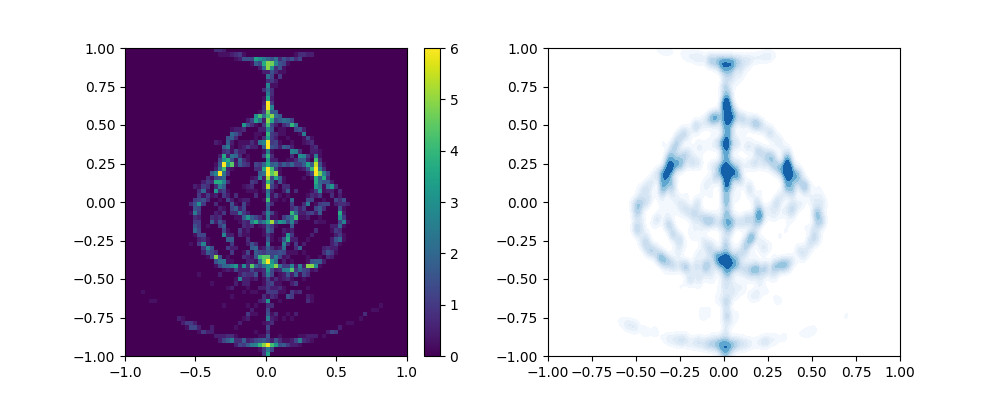
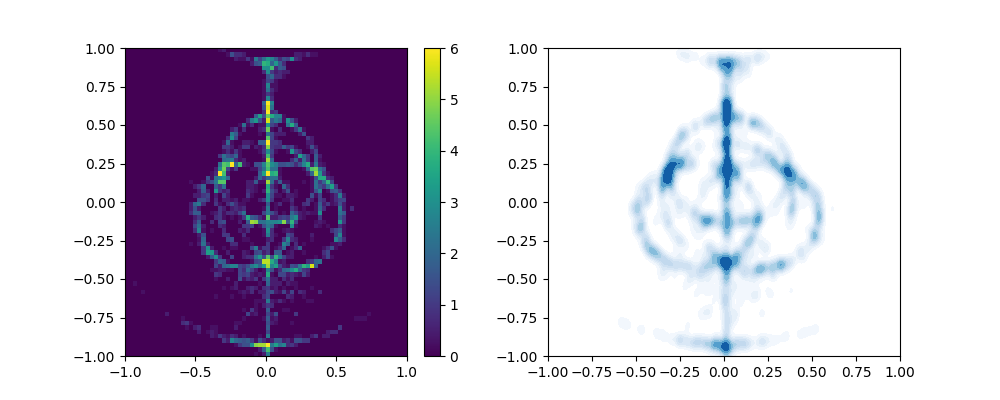
generic commit

diff --git a/scripts/transport/kdiffusion.py b/scripts/transport/kdiffusion.py
@@ -177,6 +177,7 @@ class CondTransportKernel(nn.Module):
         if not self.params['approx']:
             self.Y_approx_test = deepcopy(self.Y_eta_test)
 
+
         self.X_mu_test = geq_1d(torch.tensor(base_params['X_mu_test'], device=self.device, dtype=self.dtype))
         self.Y_mu_test = geq_1d(torch.tensor(base_params['Y_mu_test'], device=self.device, dtype=self.dtype))
         self.Y_test = torch.concat([self.X_mu_test, self.Y_mu_test], dim=1)
@@ -185,7 +186,7 @@ class CondTransportKernel(nn.Module):
         self.alpha_y = self.p_vec(self.Ny)
         self.E_mmd_YY = self.alpha_y.T @ self.mmd_YY @ self.alpha_y
 
-
+        self.mmd_lambda = 1
         self.mmd_lambda = (1 / self.loss_mmd().detach())
 
         self.reg_lambda = self.params['reg_lambda'] * self.mmd_lambda
@@ -224,9 +225,6 @@ class CondTransportKernel(nn.Module):
         x_mu = geq_1d(torch.tensor(x_mu, device=self.device, dtype=self.dtype))
         if not self.params['approx']:
             y_approx = deepcopy(y_eta)
-            #x = torch.concat([x_mu, y_approx], dim=1)  ##
-        #else:
-            #x = torch.concat([x_mu, shuffle(y_eta), y_approx], dim=1)
         x = torch.concat([x_mu, y_approx], dim=1)
 
         Lambda = self.get_Lambda()
@@ -334,7 +332,7 @@ def cond_kernel_transport(X_mu, Y_mu, Y_eta, params, Y_approx = [], iters = 0,mm
 
 
 def comp_cond_kernel_transport(X_mu, Y_mu, Y_eta,  params, n_transports=50,
-                               final_eps=1e-5, Y_eta_test = [], X_mu_test = [],Y_mu_test = []):
+                               Y_eta_test = [], X_mu_test = [],Y_mu_test = [],final_eps=1e-5):
     model_params = {'fit_kernel': [], 'Lambda': [], 'X': [],'Lambda1': [], 'X1': []}
     iters = 0
     noise_shrink_c = np.exp(np.log(final_eps) / (n_transports - 1))
@@ -652,8 +650,8 @@ def vl_exp(N=4000, Yd=18, normal=True, exp_name='kvl_exp', n_transports=100, N_p
 
 
 def run():
-    two_d_exp(ref_gen=sample_normal, target_gen=sample_elden_ring, N=5000, exp_name='elden_exp_alt4', n_transports=150,
-              slice_vals=[], plt_range=[[-1, 1], [-1, 1]], slice_range=[], vmax=6, skip_idx=1, N_plot=5000)
+    two_d_exp(ref_gen=sample_normal, target_gen=sample_elden_ring, N=5000, exp_name='elden_exp_alt3', n_transports=200,
+              slice_vals=[], plt_range=[[-1, 1], [-1, 1]], slice_range=[-1, 1], vmax=6, skip_idx=1, N_plot=5000)
 
 
 if __name__ == '__main__':
